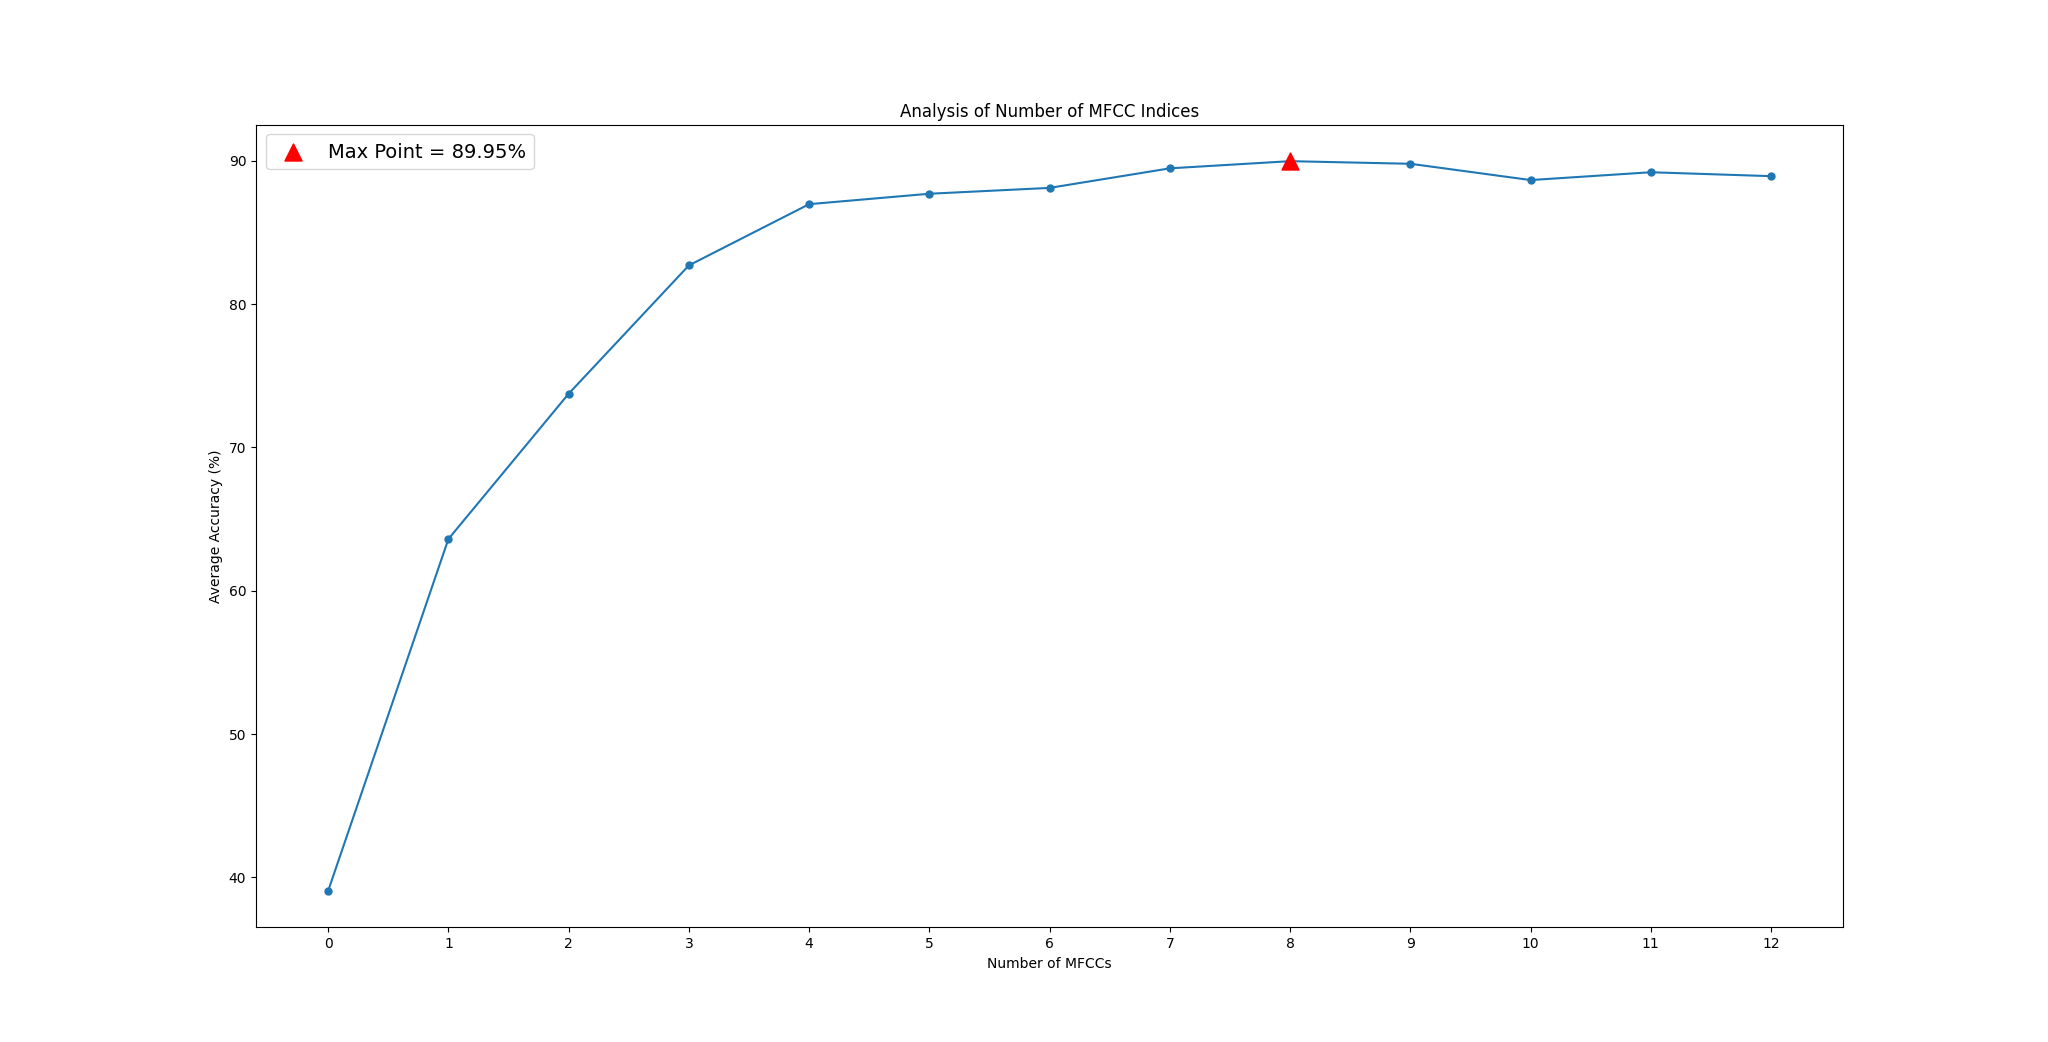
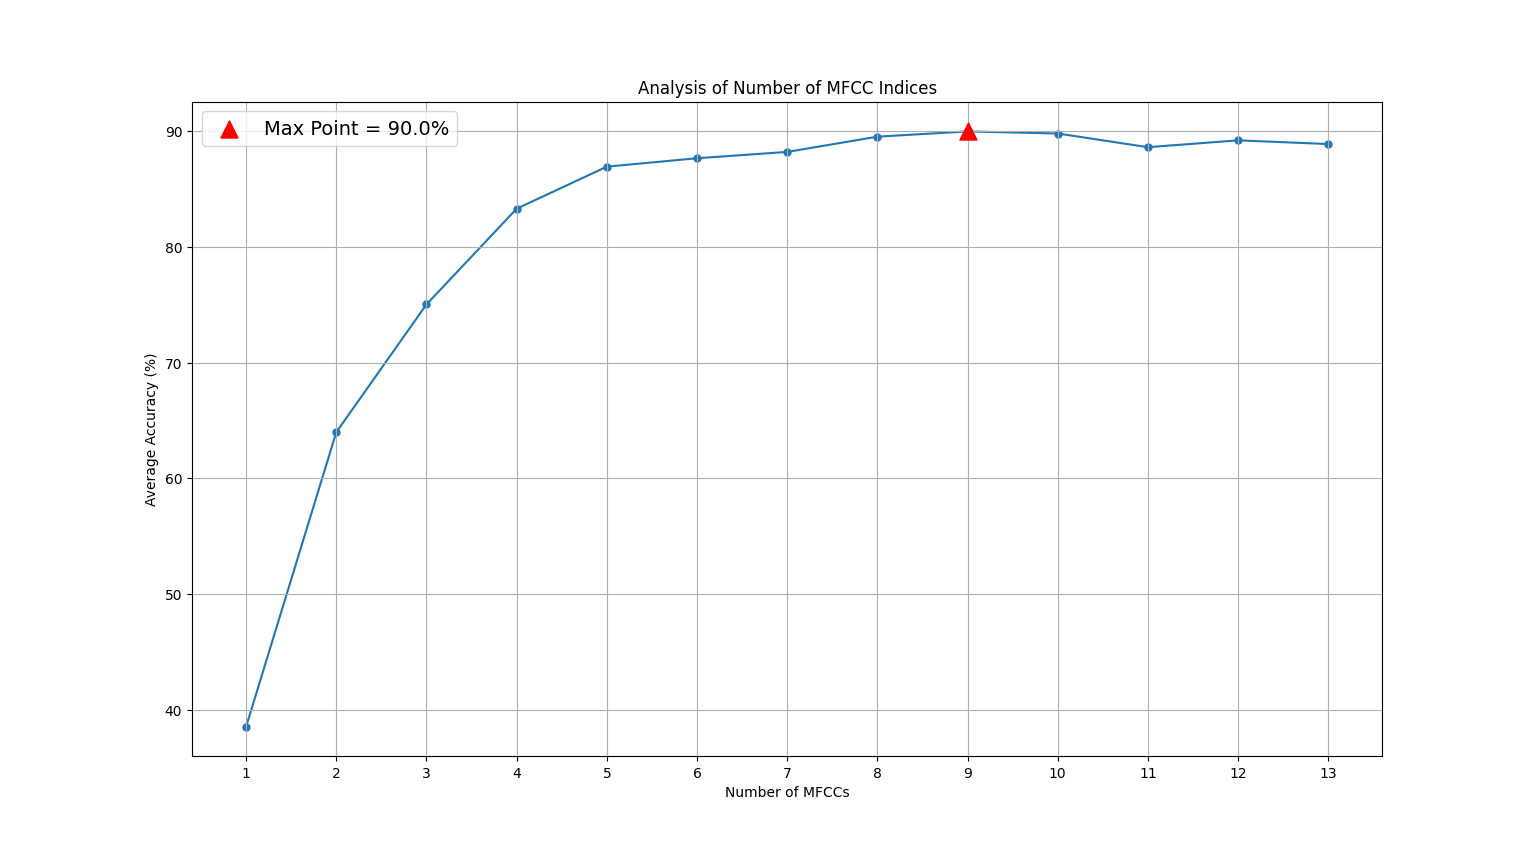
Clean up unused code

diff --git a/main.py b/main.py
@@ -193,7 +193,6 @@ def test_mfcc_combinations(hyperparams, training, testing):
                 hyperparams["mfcc_indexes"] = new_mfcc_indexes
                 classifier = Classifier(training, hyperparams)
                 _, avg_accuracy = classifier.confusion(testing, show_plot=False, show_timing=False)
-                # avg_accuracy = random.randint(1, 100)
                 if avg_accuracy > best_new_mfcc_accuracy:
                     best_new_mfcc_accuracy = avg_accuracy
                     best_new_mfcc_index = new_mfcc_index
@@ -203,6 +202,19 @@ def test_mfcc_combinations(hyperparams, training, testing):
         new_mfcc_indexes.append(best_new_mfcc_index)
         accuracies.append([best_new_mfcc_accuracy, sorted(new_mfcc_indexes)])
 
+    ungendered_accuracies = [[38.54545454545455, [4]],
+                             [64.0, [2, 4]],
+                             [75.04545454545455, [1, 2, 4]],
+                             [83.31818181818183, [1, 2, 4, 7]],
+                             [86.95454545454547, [1, 2, 4, 5, 7]],
+                             [87.68181818181817, [1, 2, 4, 5, 7, 10]],
+                             [88.22727272727272, [1, 2, 4, 5, 6, 7, 10]],
+                             [89.54545454545455, [1, 2, 4, 5, 6, 7, 8, 10]],
+                             [90.0, [1, 2, 4, 5, 6, 7, 8, 10, 12]],
+                             [89.81818181818183, [1, 2, 3, 4, 5, 6, 7, 8, 10, 12]],
+                             [88.63636363636363, [0, 1, 2, 3, 4, 5, 6, 7, 8, 10, 12]],
+                             [89.22727272727272, [0, 1, 2, 3, 4, 5, 6, 7, 8, 9, 10, 12]],
+                             [88.9090909090909, [0, 1, 2, 3, 4, 5, 6, 7, 8, 9, 10, 11, 12]]]
     female_accuracies = [[58.45454545454545, [4]],
                          [81.72727272727272, [2, 4]],
                          [88.18181818181819, [1, 2, 4]],
@@ -231,12 +243,13 @@ def test_mfcc_combinations(hyperparams, training, testing):
                          [84.81818181818181, [0, 1, 2, 3, 4, 5, 6, 7, 8, 9, 10, 11, 12]]]
     # accuracies = male_accuracies
     pprint(accuracies)
-    x = [i for i in range(13)]
+    x = [i + 1 for i in range(13)]
     y = [accuracy[0] for accuracy in accuracies]
     max_index = y.index(max(y))
     plt.figure()
     plt.plot(x, y, marker='o', zorder=1, markersize=5)
-    plt.scatter(max_index, y[max_index], color='red', marker='^', label='Max Point = ' + str(round(max(y), 2)) + "%", zorder=2, s=150)
+    plt.scatter(max_index + 1, y[max_index], color='red', marker='^', label='Max Point = ' + str(round(max(y), 2)) + "%", zorder=2, s=150)
+    plt.grid(True)
     plt.xlabel("Number of MFCCs")
     plt.ylabel("Average Accuracy (%)")
     plt.title("Analysis of Number of MFCC Indices")
@@ -271,7 +284,7 @@ if __name__ == '__main__':
     tuned_mfccs_both_genders = [1, 2, 4, 5, 6, 7, 8, 10, 12]
 
     hyperparameters = {
-        "mfcc_indexes": all_mfccs,
+        "mfcc_indexes": [1, 2, 4, 5, 6, 7, 8, 10, 12],
         "use_kmeans": False,
         "covariance_type": "full",
         "covariance_tied":  False,
@@ -309,9 +322,9 @@ if __name__ == '__main__':
     female_test = testing_data.filter_by_gender("F")
     # test_mfcc_combinations(hyperparameters, training_data, testing_data)
     # test_mfcc_combinations(hyperparameters, female_train, female_test)
-    # Classifier(training_data, hyperparameters).confusion(testing_data, show_plot=True, show_timing=True)
+    Classifier(training_data, hyperparameters).confusion(testing_data, show_plot=True, show_timing=True)
     # print(Classifier(male_train, hyperparameters).confusion(male_test, show_plot=True, show_timing=True))
-    print(Classifier(female_train, hyperparameters).confusion(female_test, show_plot=True, show_timing=True))
+    # print(Classifier(female_train, hyperparameters).confusion(female_test, show_plot=True, show_timing=True))
     # make_plots_part_a(training_data)
     plt.show()
 

diff --git a/check_ins/checkin_3.py b/check_ins/checkin_3.py
@@ -3,7 +3,6 @@ from matplotlib import pyplot as plt
 from scipy.stats import multivariate_normal
 from sklearn.cluster import KMeans
 from sklearn.neighbors import KernelDensity
-
 from GMM import GaussianMixtureModel
 from parsing.ParsedData import get_all_blocks
 
@@ -59,7 +58,7 @@ def tied_full_covariance(coords, labels, centers, k):
 
 def run_gmm(data, digit, k):
     coordinates = np.array(get_all_blocks(data.filter_by_digit(digit)))
-    (labels, centers, cov) = GaussianMixtureModel(data.filter_by_digit(digit), k).get_gmm_data()
+    (labels, centers, cov) = GaussianMixtureModel(data.filter_by_digit(digit), k).train_gmm(digit)
     clusters = {}
     for i in range(k):
         clusters[i] = []
@@ -87,10 +86,8 @@ def part_b_wrapper(data, params, d):
     for digit in range(10):
         likelihoods.append(likelihood(data, digit, target_cluster_info, k))
 
-    fig, axs = plt.subplots(2, 5, tight_layout=True, sharex=True, sharey=True)
+    fig, axs = plt.subplots(10, 1, tight_layout=True, sharex=True, sharey=True)
 
-    best_guess = -1
-    max_likelihood = 0
     for i, ax in enumerate(axs.flat):
         ax.set_title(f"Digit {i}")
         kd = KernelDensity(kernel='gaussian', bandwidth=50)
@@ -99,11 +96,7 @@ def part_b_wrapper(data, params, d):
         x = np.linspace(min(likely), max(likely), 1000).reshape(-1, 1)
         log_dens = kd.score_samples(x)
         y = np.exp(log_dens)
-        if max(y) > max_likelihood:
-            max_likelihood = max(y)
-            best_guess = i
         ax.plot(x, y)
-    print(best_guess)
     plt.show()
 
 

diff --git a/check_ins/scatter.py b/check_ins/scatter.py
@@ -1,8 +1,7 @@
 import numpy as np
 from matplotlib import pyplot as plt
 from scipy.stats import multivariate_normal
-
-from GMM import GaussianMixtureModel
+from sklearn.mixture import GaussianMixture
 
 
 def create_contours(mean, cov, points):
@@ -25,8 +24,8 @@ def create_scatter(data, k, digit):
     point_relations = [[1, 0], [2, 0], [2, 1]]
     data_blocks = data.filter_by_digit(digit)
     all_mfccs = np.vstack([data_block.mfccs for data_block in data_blocks])
-    gmm = GaussianMixtureModel(data_blocks, k, use_kmeans=False)
-    labels, centers, covariance = gmm.em()
+    gmm = GaussianMixture(data_blocks, num_components=k)
+    labels, centers, covariance = gmm
 
     v0 = all_mfccs[:, 0]
     v1 = all_mfccs[:, 1]

diff --git a/Classifier.py b/Classifier.py
@@ -1,15 +1,9 @@
 import time
 from pprint import pprint
-
 import numpy as np
 from matplotlib import pyplot as plt
 from matplotlib.colors import LinearSegmentedColormap
-from matplotlib.pyplot import colormaps
-
 from GMM import GaussianMixtureModel
-from GradientColorMapper import GradientColorMapper
-
-# MAX_CORRECT = 220
 
 
 class Classifier:
@@ -114,4 +108,4 @@ class Classifier:
         algorithm_string = "K-Means" if self.hyperparams["use_kmeans"] else "EM"
         fig.suptitle(" ".join(
             ["Confusion Matrix Using", algorithm_string, "With", covariance_tied_string, covariance_type_string,
-             "Covariance (Female)"]))
+             "Covariance"]))
